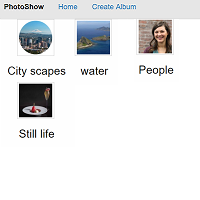
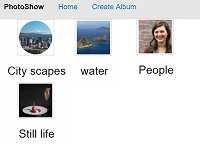
update css

diff --git a/public/css/custom.css b/public/css/custom.css
@@ -1,0 +1,8 @@
+.boxshadow {
+    position: relative;
+    -moz-box-shadow: 2px 4px 8px rgba(0, 0, 0,0.5);
+    -webkit-box-shadow: 2px 4px 8px rgba(0, 0, 0, .5);
+    box-shadow: 2px 4px 8px rgba(0, 0, 0, .5);
+    padding: 10px;
+    background: white;
+}

diff --git a/resources/views/inc/portfolio.blade.php b/resources/views/inc/portfolio.blade.php
@@ -1,14 +1,13 @@
+<style>
+
+</style>
 <h3 class="text-center">Portfolio</h3>
 <div class="container-fluid">
     <div class="row">
         <div class="col-sm-4">
-            <div class="card" style="width: 14rem;">
+            <div class="card boxshadow" style="width: 14rem;">
                 <img class="card-img-top" src="images/tribute.png" alt="A Codepen tribute to Dr Edward Jenner">
                 <div class="card-body">
-                    <br>
-                    <br>
-                    <br>
-                    <br>
                     <h4 class="card-title">A Tribute</h4>
                     <p class="card-text">This Codepen uses only html, css, and bootstrap&nbsp;3
                     </p>
@@ -17,7 +16,7 @@
             </div>
         </div>
         <div class="col-sm-4">
-            <div class="card" style="width: 14rem;">
+            <div class="card boxshadow" style="width: 14rem;">
                 <img class="card-img-top" src="images/photoshow.png"
                      alt="A simple photo gallery using Laravel 5.5 and mysql">
                 <div class="card-body">

diff --git a/resources/views/layouts/app.blade.php b/resources/views/layouts/app.blade.php
@@ -7,6 +7,7 @@
     <meta http-equiv="X-UA-Compatible" content="ie=edge">
     <title>Donnert</title>
     <link rel="stylesheet" href="/css/app.css">
+    <link rel="stylesheet" href="/css/custom.css">
 </head>
 
 <body>
